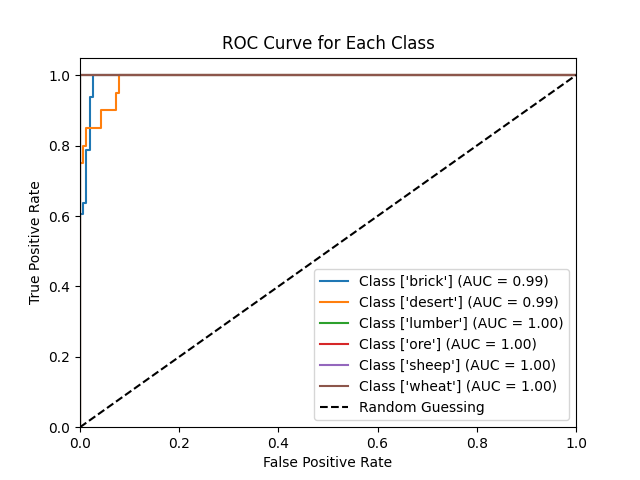
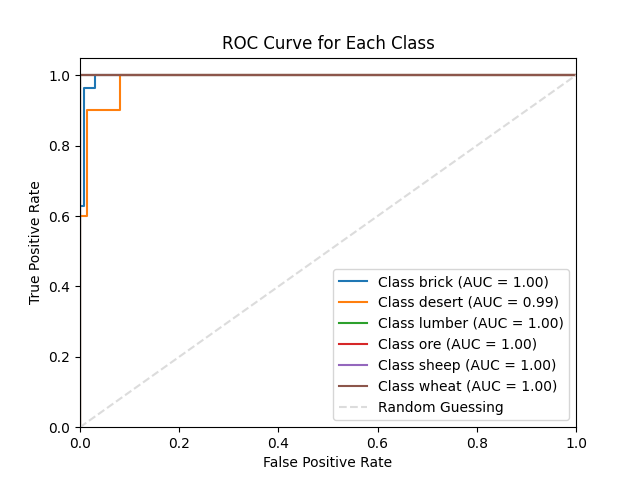
Small hyperparameter tuning

diff --git a/board_piece_classification/hexagon_classification_training.py b/board_piece_classification/hexagon_classification_training.py
@@ -162,14 +162,14 @@ def build_cnn(input_shape, seed):
             layers.Dropout(0.15),
             layers.MaxPool2D(pool_size=(1, 1), padding="valid"),
             layers.Flatten(),
-            layers.Dense(100, activation="relu", kernel_initializer=initializer),
+            layers.Dense(80, activation="relu", kernel_initializer=initializer),
             layers.Dropout(0.15),
             layers.Dense(NUM_CLASSES, activation="softmax", kernel_initializer=initializer),
         ]
     )
 
     # Define optimizer
-    optimizer = optimizers.Adam(learning_rate=5e-5, use_ema=True)
+    optimizer = optimizers.Adam(learning_rate=5e-4, use_ema=True)
 
     # Compile the model
     model.compile(

diff --git a/visualization/plot_tile_detector_results.py b/visualization/plot_tile_detector_results.py
@@ -39,10 +39,10 @@ def plot_roc(num_classes, fpr, tpr, roc_auc, label_encoder, save_path):
         plt.plot(
             fpr[i],
             tpr[i],
-            label=f'Class {label_encoder.inverse_transform([i])} (AUC = {roc_auc[i]:.2f})'
+            label=f'Class {label_encoder.inverse_transform([i])[0]} (AUC = {roc_auc[i]:.2f})'
         )
 
-    plt.plot([0, 1], [0, 1], 'k--', label='Random Guessing')
+    plt.plot([0, 1], [0, 1], 'k--', label='Random Guessing', color='gainsboro')
     plt.xlim([0.0, 1.0])
     plt.ylim([0.0, 1.05])
     plt.xlabel('False Positive Rate')

diff --git a/board_piece_classification/test_number_prediction.py b/board_piece_classification/test_number_prediction.py
@@ -43,7 +43,7 @@ if __name__ == '__main__':
     tesseract_result_save_path = "data/output/number_detector_test_results.txt"
     label_encoder_path = "data/output/compiled_dataset/label_encoder/label_encoder_numbers.pkl"
     roc_curve_save_path = "data/output/number_detector_roc_curve.png"
-    no_samples_to_predict = 500
+    no_samples_to_predict = 1000
     num_classes = 11
 
     print(f"Compiling dataset at path: {dataset_path}")
